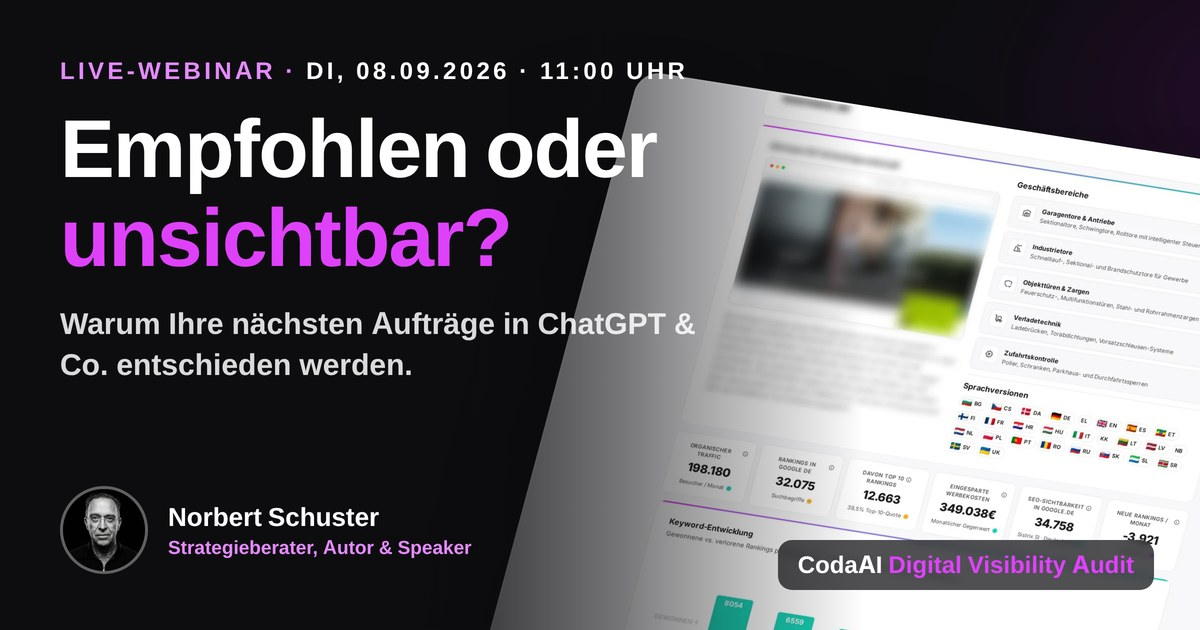
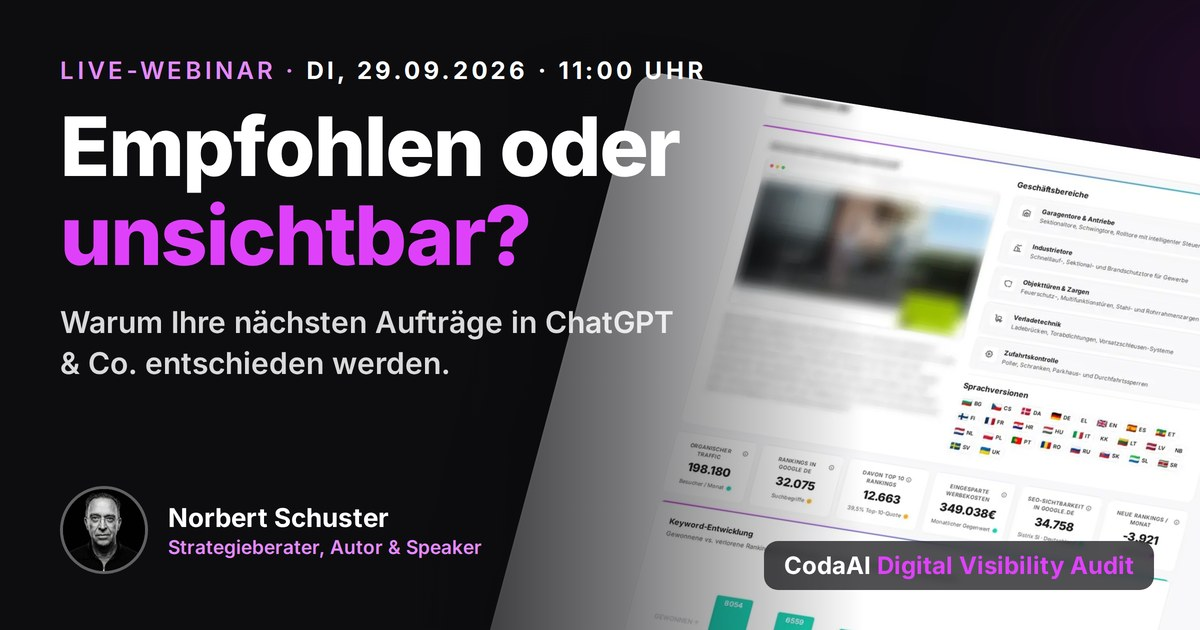
Webinar: Termin auf Di, 29.09.2026, 11:00 Uhr verlegt (DE + EN)
Alle Stellen vom 08.09. auf den 29.09. nachgezogen: Slot-Liste und
Event-Schema (startDate/endDate), Anmeldekarte, Hero-Zeile, Countdown,
Slot-ID der beiden Anmeldeformulare, Bestaetigungstext, Live-Check-Texte,
Footer-Knopf (WEBINAR_DATE -> 29.09., blendet sich danach wieder aus),
/studie + /en/study, llms.txt, llms-full.txt, FAQ-Kommentare und das
OG-Bild og-webinar.jpg (neu gerendert aus werkstatt/og-webinar.html).

Build 170 Seiten/0 Fehler, SEO-Check gruen, kein 08.09. mehr in dist/.

Claude-Session: https://claude.ai/code/session_01F5FK5363L6FAYBY8cFSc5o

diff --git a/src/data/faq.en.ts b/src/data/faq.en.ts
@@ -123,7 +123,7 @@ export const faqPricingEn: FaqItem[] = [
   },
 ];
 
-/* ── /en/webinar/: the live webinar on 08.09.2026 ────────────────────────
+/* ── /en/webinar/: the live webinar on 29.09.2026 ────────────────────────
    Note the first entry: the webinar is held in GERMAN. That has to be said
    plainly on the English page — on this page, in the hero and above the
    registration form. Anything else sets the reader up for a wasted hour. */

diff --git a/src/pages/llms-full.txt.ts b/src/pages/llms-full.txt.ts
@@ -23,7 +23,7 @@ Auswertung von 7.184 KI-Antworten zu 449 mittelständischen Unternehmen aus 258 
 
 ### Webinar „Empfohlen oder unsichtbar?"
 URL: ${BASE_URL}/webinar/
-Kostenloses Webinar am 08.09.2026 mit Norbert Schuster (strike2) und Oliver Parrizas: wie Buying Center heute recherchieren, und ein Live-Audit.
+Kostenloses Webinar am 29.09.2026 mit Norbert Schuster (strike2) und Oliver Parrizas: wie Buying Center heute recherchieren, und ein Live-Audit.
 
 ### Fragen & Antworten
 URL: ${BASE_URL}/faq/

diff --git a/src/data/faq.ts b/src/data/faq.ts
@@ -120,7 +120,7 @@ export const faqPreise: FaqItem[] = [
   },
 ];
 
-/* ── /webinar: Teilnahme am Live-Webinar am 08.09.2026 ───────────────────── */
+/* ── /webinar: Teilnahme am Live-Webinar am 29.09.2026 ───────────────────── */
 export const faqWebinar: FaqItem[] = [
   {
     q: 'Wie erhalte ich den Zugangslink?',
